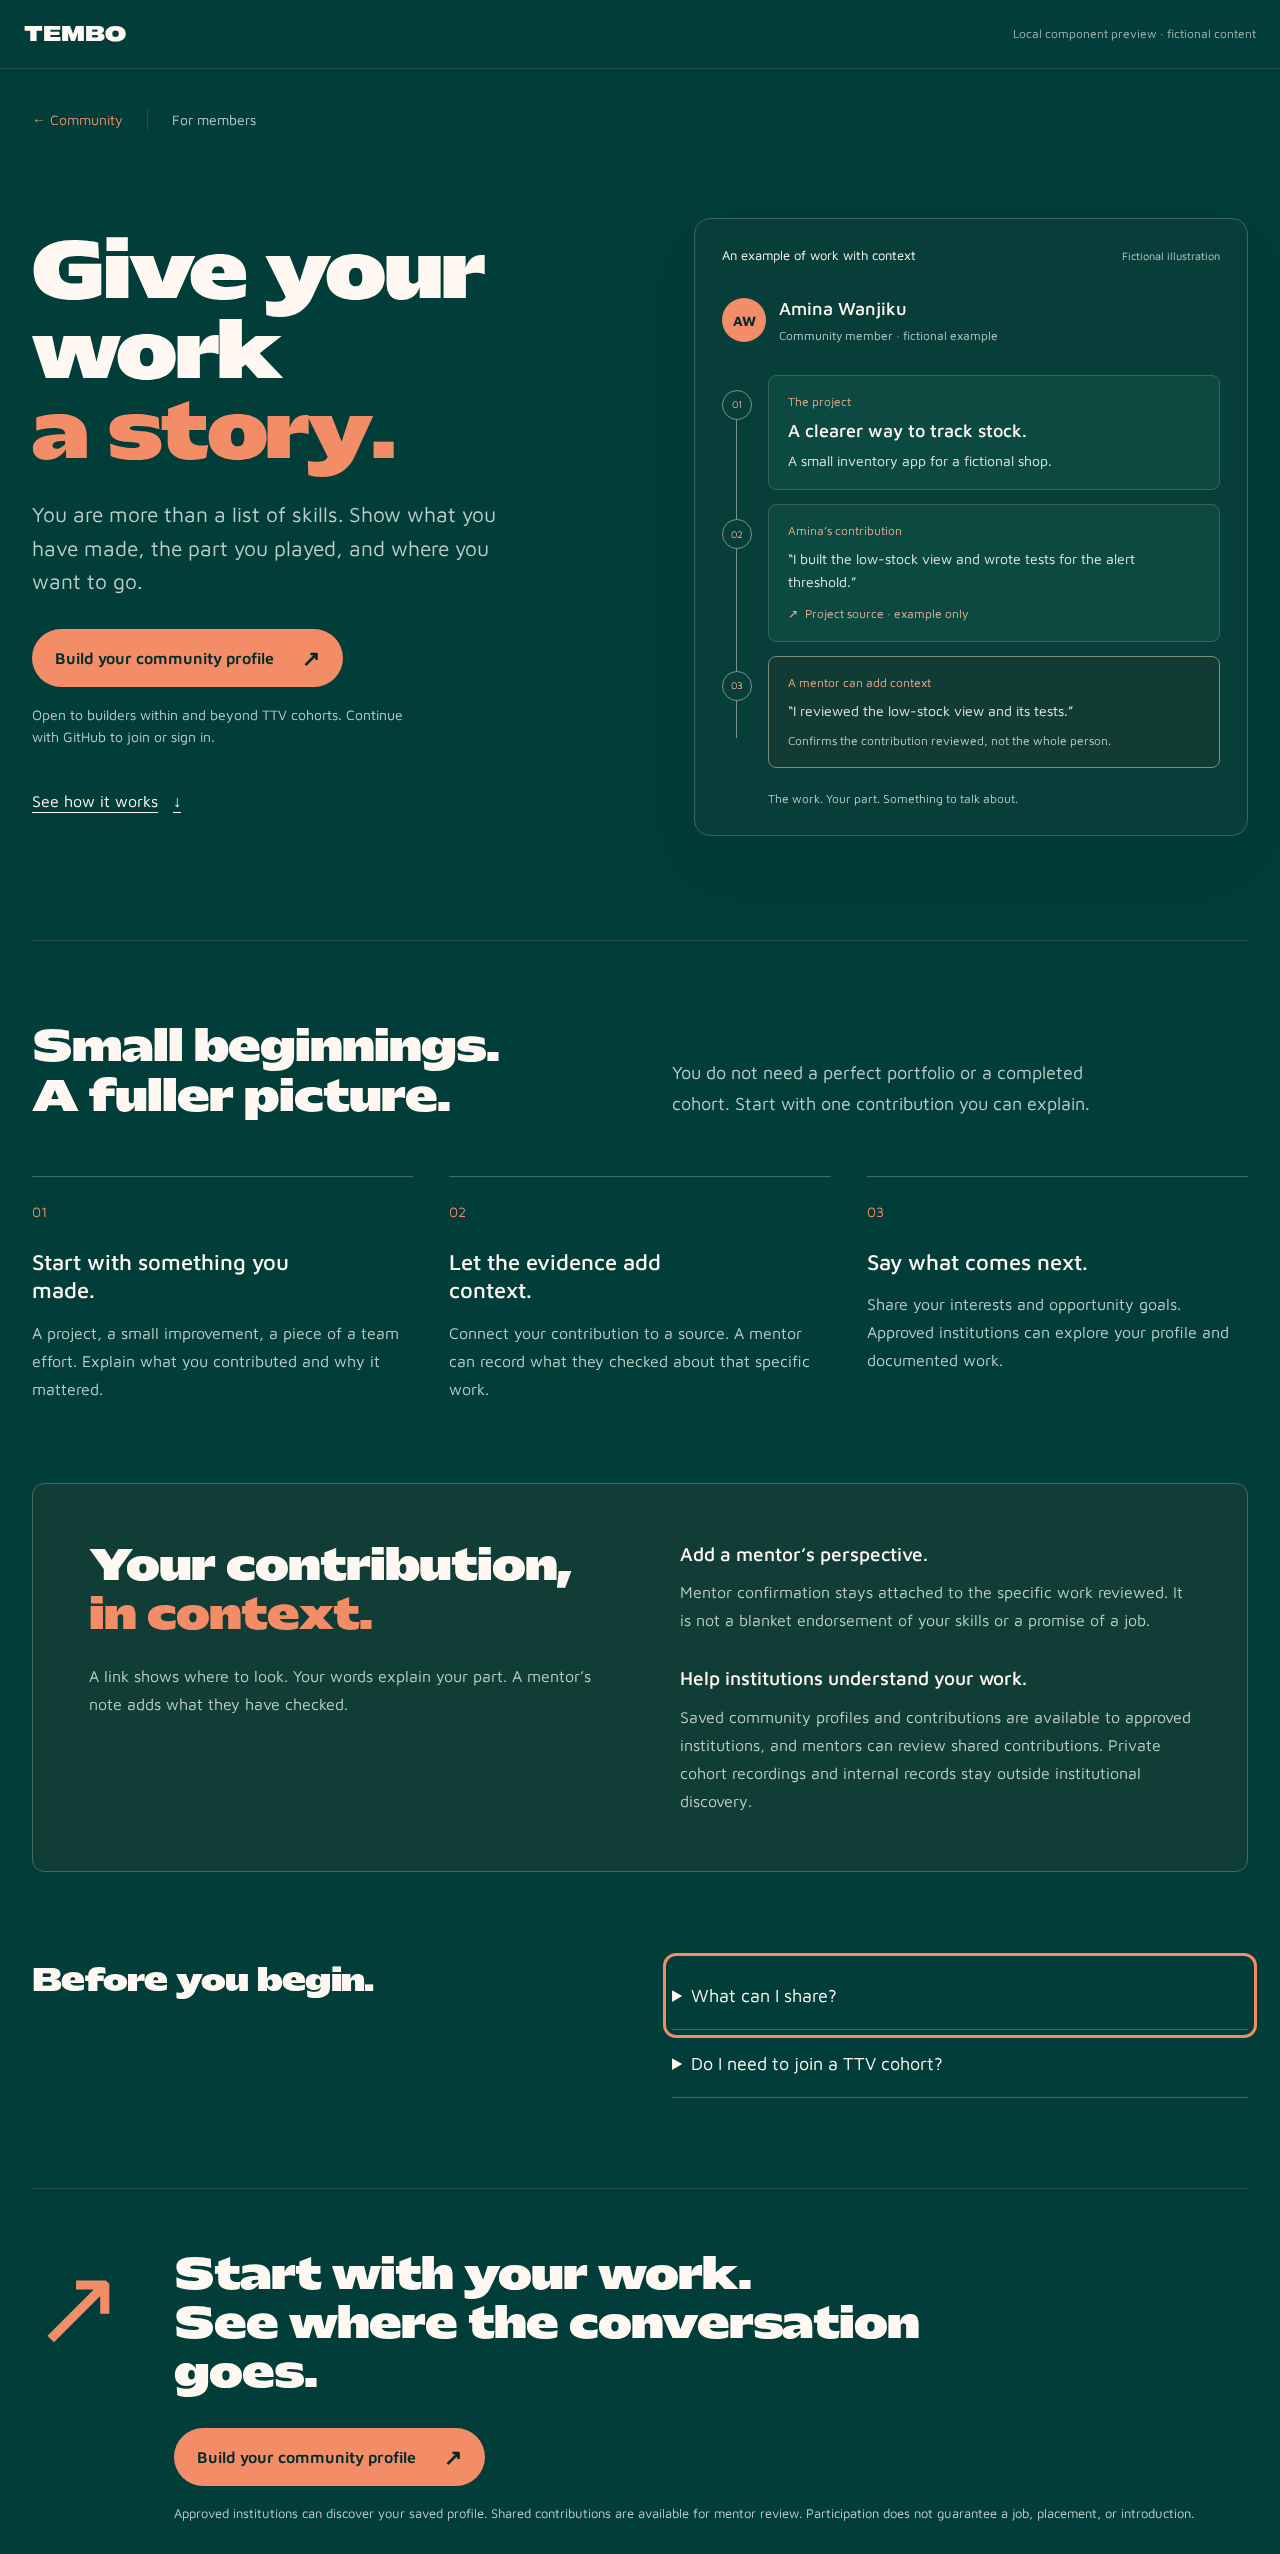
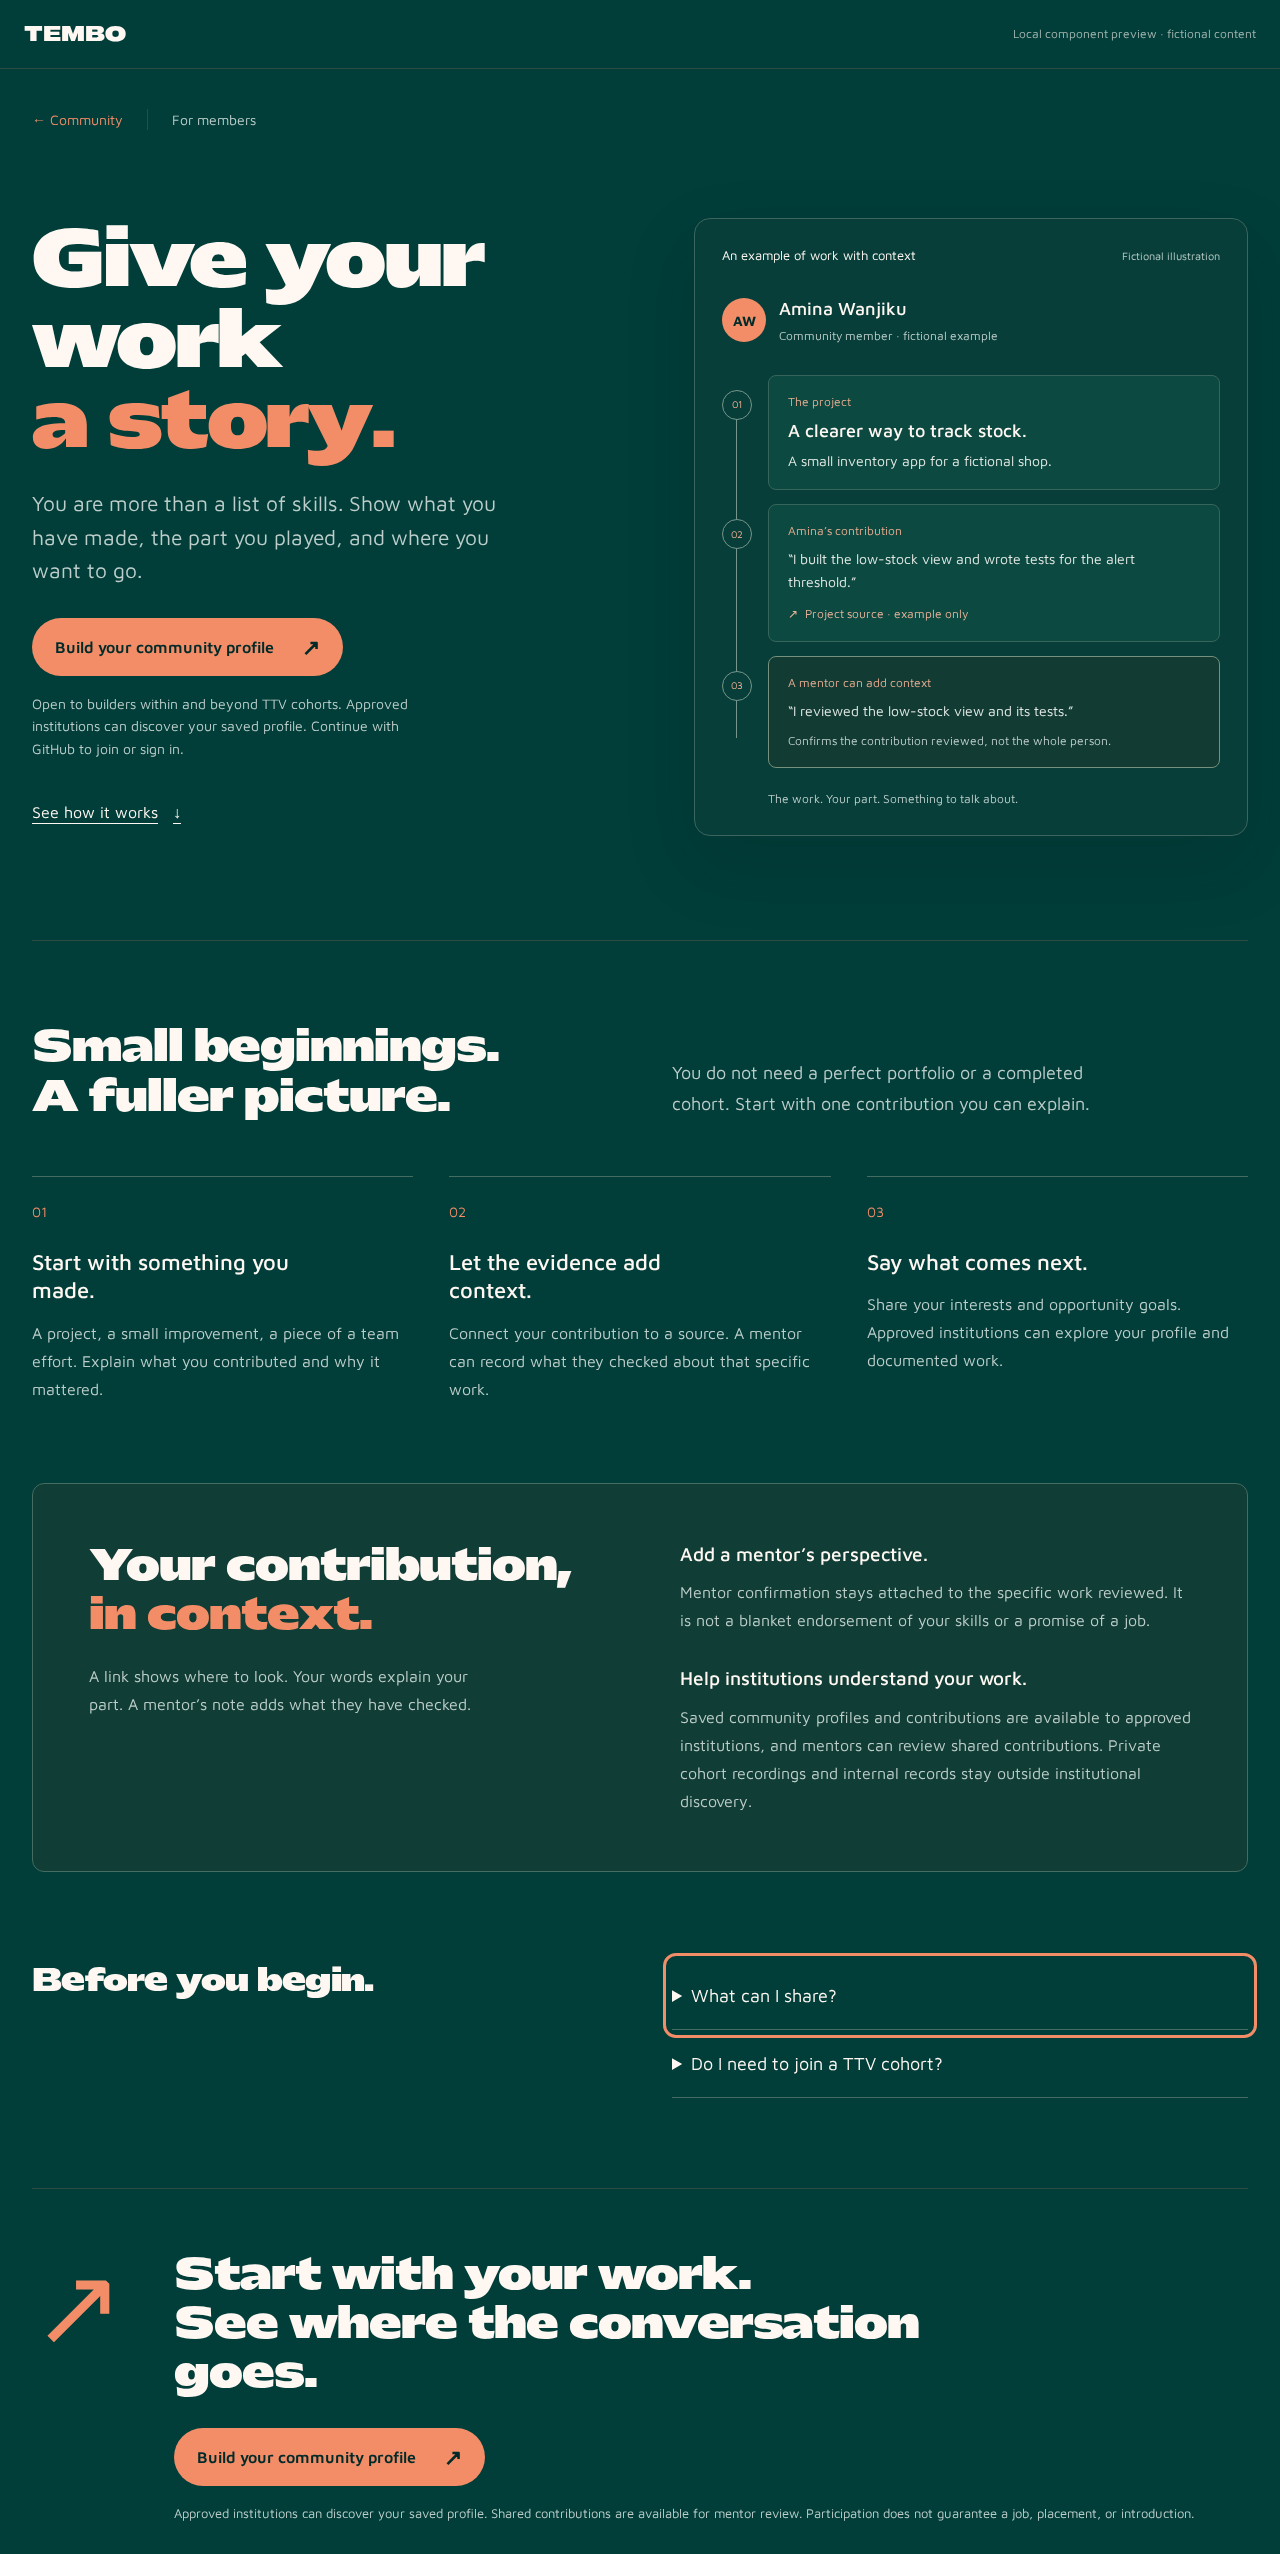
Clarify first community CTA visibility and constrain context copy

Changed region(s): [[0.0312, 0.0619, 0.375, 0.3403]]

diff --git a/web/e2e/community-audience.spec.ts b/web/e2e/community-audience.spec.ts
@@ -3,6 +3,7 @@ import { expect, test } from "@playwright/test";
 test.beforeEach(async ({ page, baseURL }) => {
   test.skip(baseURL !== "http://127.0.0.1:4322", "Local component verification, not live auth or route evidence.");
   await page.goto("/community-audience.html");
+  await expect(page.getByRole("heading", { level: 1 })).toBeVisible();
   await page.evaluate(() => document.fonts.ready);
 });
 
@@ -55,6 +56,7 @@ for (const [audience, headline, cta, destination] of [
 ]) {
   test(`${audience} explains approval, supports keyboard disclosures and retains its CTA destination`, async ({ page }) => {
     await page.goto(`/community-audience.html?audience=${audience}`);
+    await expect(page.getByRole("heading", { level: 1 })).toBeVisible();
     await page.evaluate(() => document.fonts.ready);
     await expect(page.getByRole("heading", { level: 1 })).toHaveText(headline);
     const link = page.getByRole("link", { name: cta }).first();
@@ -80,6 +82,7 @@ for (const [audience, headline, cta, destination] of [
     await page.emulateMedia({ reducedMotion: "reduce" });
     await page.setViewportSize({ width: 320, height: 740 });
     await page.goto(`/community-audience.html?audience=${audience}`);
+    await expect(page.getByRole("heading", { level: 1 })).toBeVisible();
     await page.evaluate(() => document.fonts.ready);
     await page.evaluate(() => {
       const elements = [...document.querySelectorAll<HTMLElement>(".community-audience h1, .community-audience h2, .community-audience h3, .community-audience p, .community-audience a, .community-audience summary")];
@@ -93,6 +96,31 @@ for (const [audience, headline, cta, destination] of [
       await expect(node).toBeVisible();
       expect(await node.evaluate(el => getComputedStyle(el).animationName)).toBe("none");
       expect(await node.evaluate(el => getComputedStyle(el).opacity)).toBe("1");
+    }
+  });
+}
+
+for (const audience of ["members", "mentors", "institutions"]) {
+  test(`${audience} context text stays within its column at desktop and tablet widths`, async ({ page }) => {
+    await page.goto(`/community-audience.html?audience=${audience}`);
+    await expect(page.getByRole("heading", { level: 1 })).toBeVisible();
+    await page.evaluate(() => document.fonts.ready);
+    for (const width of [701, 900, 1280, 1536]) {
+      await page.setViewportSize({ width, height: 1000 });
+      const geometry = await page.locator(".audience-context").evaluate(section => {
+        const [left, right] = [...section.children].map(column => column.getBoundingClientRect());
+        const escapedText: string[] = [];
+        for (const column of section.children) {
+          const bounds = column.getBoundingClientRect();
+          for (const text of column.querySelectorAll("h2,h3,p")) {
+            const range = document.createRange(); range.selectNodeContents(text);
+            if ([...range.getClientRects()].some(rect => rect.left < bounds.left - 1 || rect.right > bounds.right + 1)) escapedText.push(text.textContent ?? "");
+          }
+        }
+        return { gap: right.left - left.right, escapedText };
+      });
+      expect(geometry.escapedText, `text escaped a context column at ${width}px`).toEqual([]);
+      expect(geometry.gap, `columns overlap at ${width}px`).toBeGreaterThanOrEqual(31);
     }
   });
 }

diff --git a/web/src/styles/community-audience.css b/web/src/styles/community-audience.css
@@ -45,8 +45,9 @@
 .audience-steps li > span { color: var(--color-primary); font-size: 14px; }
 .audience-steps h3 { font-weight: 500; font-size: 22px; line-height: 1.3; margin: 25px 0 14px; max-width: 260px; }
 .audience-steps p, .audience-context p { font-size: 16px; line-height: 1.75; color: var(--audience-muted); margin: 0; }
-.audience-context { display: grid; grid-template-columns: 1fr 1fr; gap: 80px; padding: 56px; border: 1px solid #446c60; background: #103d35; border-radius: 12px; }
-.audience-context h2 + p { margin-top: 24px; }
+.audience-context { display: grid; grid-template-columns: repeat(2, minmax(0, 1fr)); gap: 80px; padding: 56px; border: 1px solid #446c60; background: #103d35; border-radius: 12px; }
+.audience-context > div, .audience-context-notes > div { min-width: 0; }
+.audience-context h2 + p { margin-top: 24px; max-inline-size: min(100%, 40ch); }
 .audience-context-notes { display: grid; gap: 30px; }
 .audience-context h3 { font-size: 19px; font-weight: 500; margin: 0 0 10px; }
 .audience-questions { display: grid; grid-template-columns: 1fr 1fr; gap: 64px; padding: 90px 0; }

diff --git a/web/src/components/community/CommunityAudiencePage.tsx b/web/src/components/community/CommunityAudiencePage.tsx
@@ -31,7 +31,7 @@ export default function CommunityAudiencePage({ isAuthenticated = false }: { isA
           <h1 id="audience-title">Give your work <em>a story.</em></h1>
           <p className="audience-lead">You are more than a list of skills. Show what you have made, the part you played, and where you want to go.</p>
           <a className="audience-button" href={href}>{cta}<span aria-hidden="true">↗</span></a>
-          <p className="audience-cta-note">Open to builders within and beyond TTV cohorts.{!isAuthenticated && " Continue with GitHub to join or sign in."}</p>
+          <p className="audience-cta-note">Open to builders within and beyond TTV cohorts. Approved institutions can discover your saved profile.{!isAuthenticated && " Continue with GitHub to join or sign in."}</p>
           <a className="audience-text-link" href="#your-first-contribution">See how it works <span aria-hidden="true">↓</span></a>
         </div>
         <ContributionTrail />

diff --git a/web/src/components/community/CommunityAudiencePage.test.tsx b/web/src/components/community/CommunityAudiencePage.test.tsx
@@ -7,6 +7,7 @@ describe("member audience page", () => {
   it("provides an honest join destination and clearly illustrative evidence without exposing a real profile", () => {
     const html = renderToStaticMarkup(<CommunityAudiencePage />);
     expect(html).toContain('href="/auth/login?next=%2Fdashboard%2Fcommunity"');
+    expect(html).toMatch(/class="audience-cta-note">[^<]*Approved institutions can discover your saved profile/);
     expect(html).toContain("Fictional illustration");
     expect(html).toContain("Project source · example only");
     expect(html).toContain("not the whole person");
